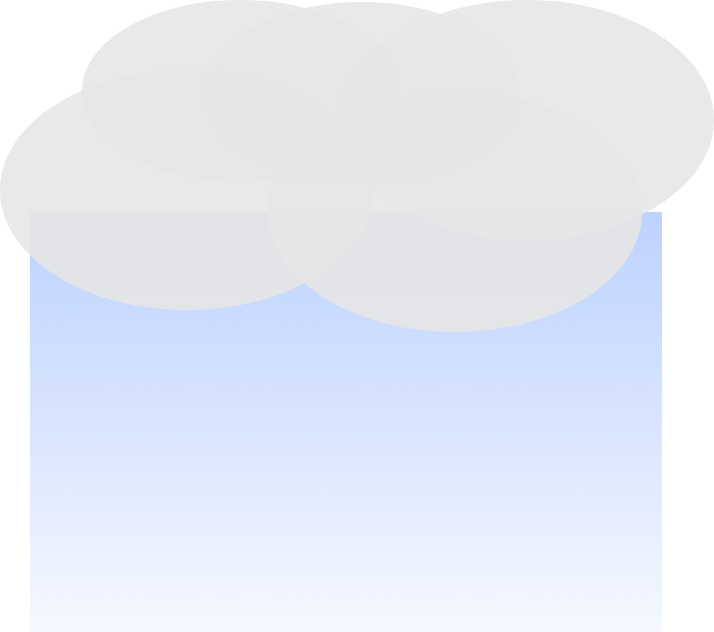
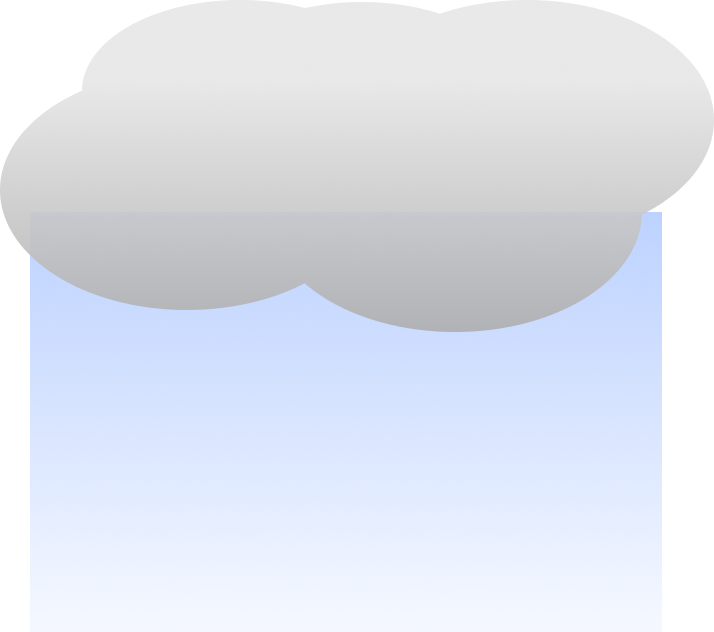
adjusted images and added more margin to rainy cloud

Changed region(s): [[0.0, 0.3006, 0.9244, 0.5411]]

diff --git a/components/WeatherCard.vue b/components/WeatherCard.vue
@@ -8,10 +8,10 @@ interface Props {
 const props = defineProps<Props>();
 
 const weatherCode = computed(() => ({
-  sunny: ( props.weatherForecast.weather_code >= 0 && props.weatherForecast.weather_code < 2 ),
-  cloudy: ( props.weatherForecast.weather_code >= 2 && props.weatherForecast.weather_code <= 67 ),
-  rainy: ( props.weatherForecast.weather_code > 67 )
-}))
+  sunny: props.weatherForecast.weather_code >= 0 && props.weatherForecast.weather_code < 2,
+  cloudy: props.weatherForecast.weather_code >= 2 && props.weatherForecast.weather_code <= 67,
+  rainy: props.weatherForecast.weather_code > 67
+}));
 
 console.log("weathercode" + weatherCode)
 
@@ -22,7 +22,7 @@ console.log("weathercode" + weatherCode)
       <div>
         <NuxtImg v-if="weatherCode.sunny" class="weather-card__image" src="images/sun.png"></NuxtImg>
         <NuxtImg v-if="weatherCode.cloudy" class="weather-card__image" src="images/sunwithclouds.png"></NuxtImg>
-        <NuxtImg v-if="weatherCode.rainy" class="weather-card__image" src="images/rainycloud.png"></NuxtImg>
+        <NuxtImg v-if="weatherCode.rainy" style="margin-top: 45%" class="weather-card__image" src="images/rainycloud.png"></NuxtImg>
       </div>
       <div class="weather-card__top" :class="weatherCode">
       </div>
